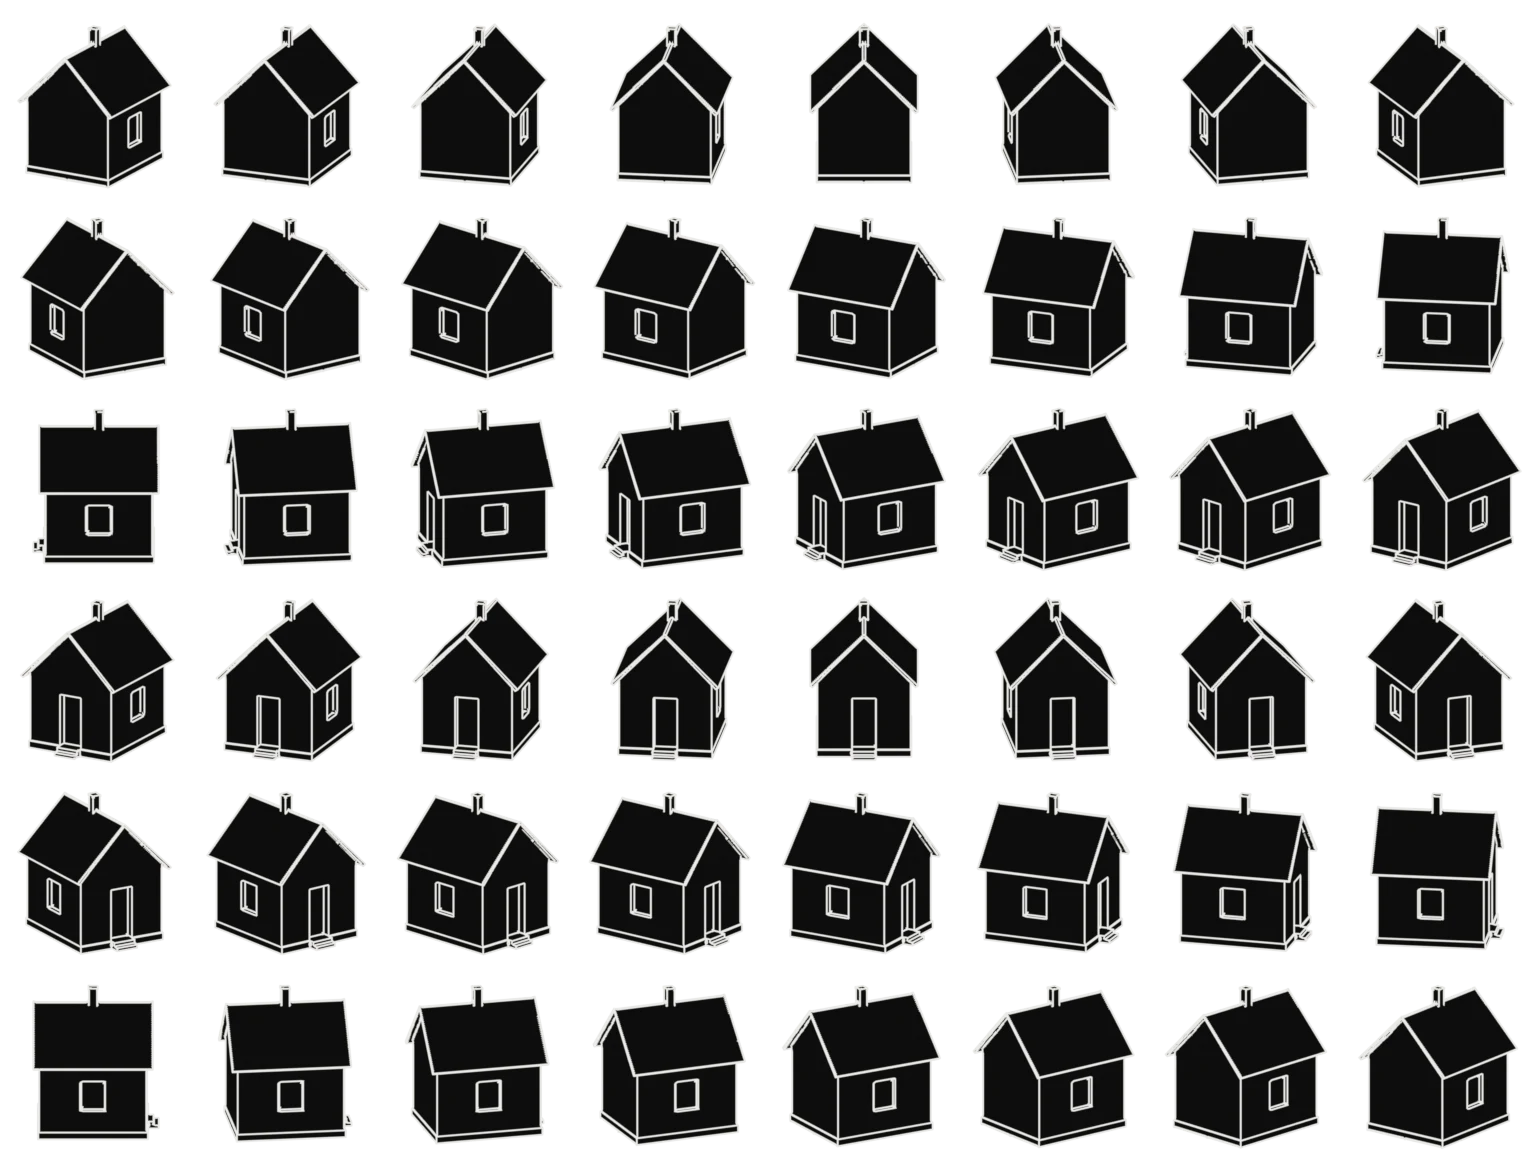
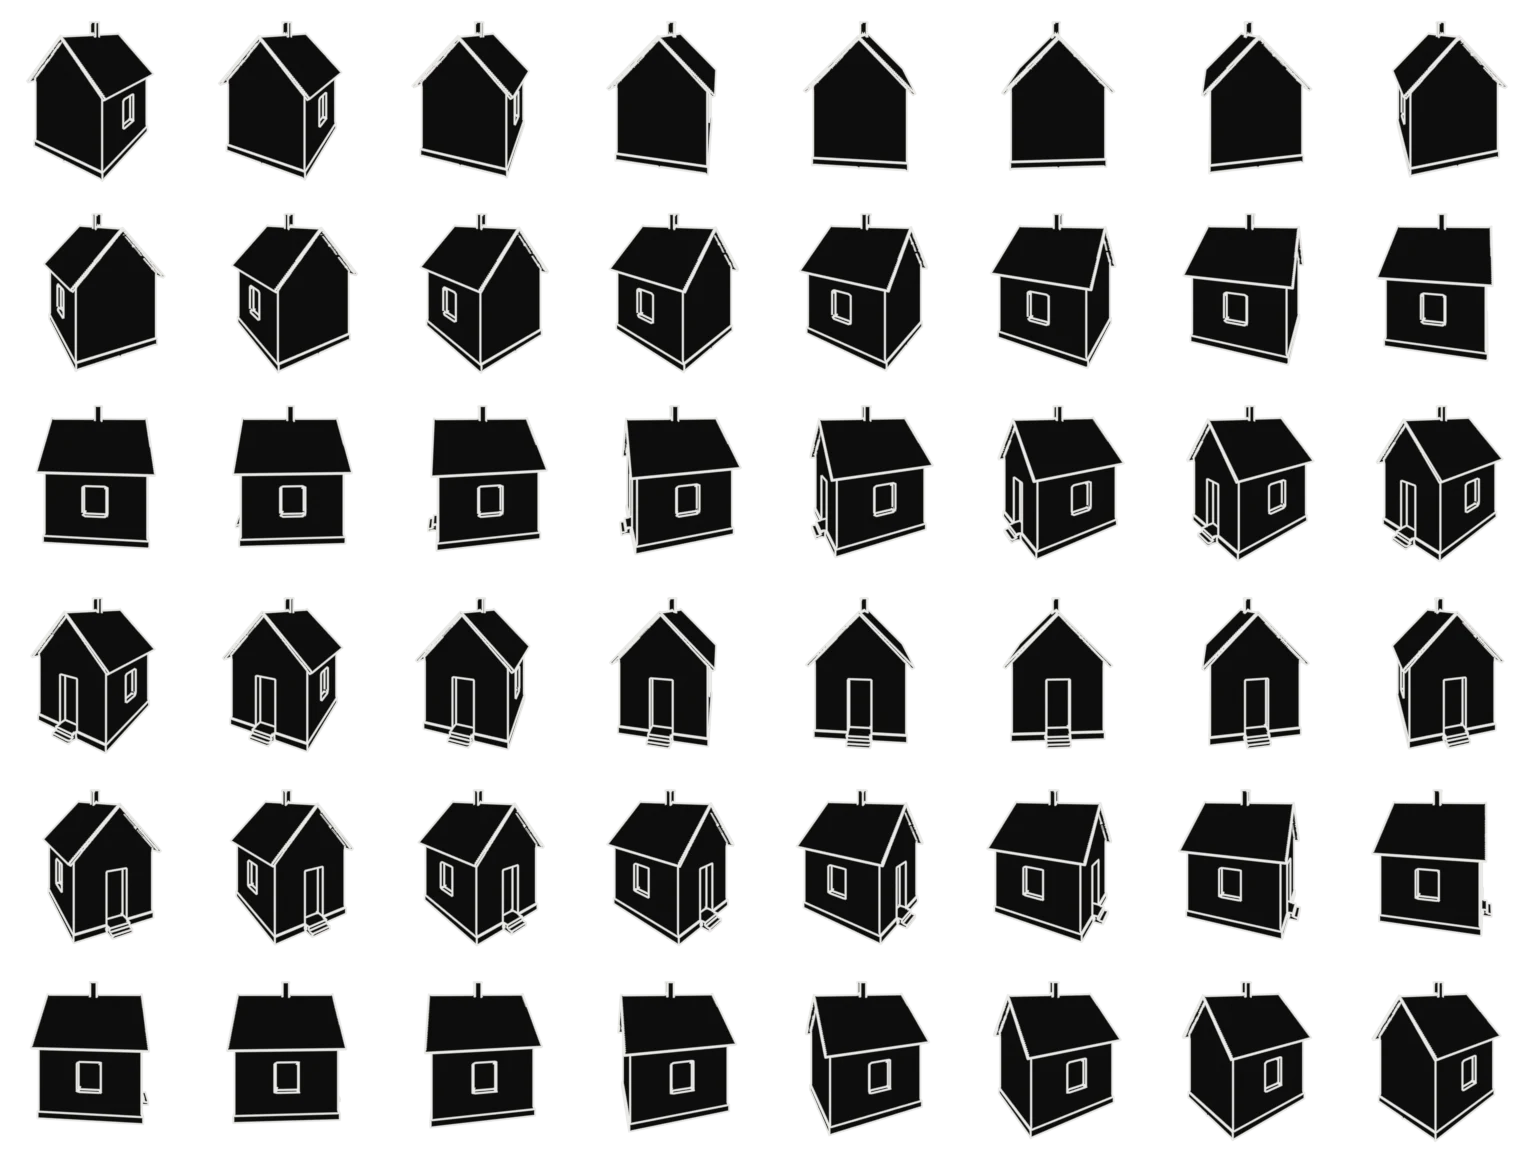
Проба: домик — ракурс Bakohan

Changed region(s): [[0.0, 0.1875, 1.0, 0.6562], [0.0, 0.6875, 1.0, 1.0], [0.0, 0.0312, 1.0, 0.1562]]

diff --git a/proba-domik/index.html b/proba-domik/index.html
@@ -14,7 +14,7 @@ body{margin:0;background:var(--bg);color:var(--ink);font:400 15px/1.4 "Inter Tig
   border-bottom:1px solid var(--line);padding:max(8px,env(safe-area-inset-top)) 16px 8px}
 .row{display:flex;align-items:center;gap:10px;height:56px}
 .row+.row{border-top:1px solid var(--line)}
-.dom{display:block;flex:none;width:44px;height:44px;background-repeat:no-repeat;background-size:800% 600%}
+.dom{display:block;flex:none;width:48px;height:48px;background-repeat:no-repeat;background-size:800% 600%}
 .name{font-weight:600;font-size:15px;line-height:1.02;letter-spacing:-.02em}
 .sep{width:1px;height:26px;background:var(--line);transform:skewX(-18deg);margin:0 4px}
 .sub{font-size:11.5px;line-height:1.35;color:var(--muted)}
@@ -32,14 +32,13 @@ p{color:var(--muted);margin:0 0 22px;font-size:15px}
 </style></head><body>
 <header class="top">
   <div class="row"><span class="dom" data-s="dom-sil.webp"></span><span class="name">Владимир<br>Парков</span><span class="sep"></span><span class="sub">Тату-мастер, Москва<br><i></i>Запись открыта</span><span class="tag"><b>1</b>силуэт</span></div>
-  <div class="row"><span class="dom" data-s="dom-tone.webp"></span><span class="name">Владимир<br>Парков</span><span class="sep"></span><span class="sub">Тату-мастер, Москва<br><i></i>Запись открыта</span><span class="tag"><b>2</b>объём</span></div>
   <div class="row"><span class="dom" data-s="dom-line.webp"></span><span class="name">Владимир<br>Парков</span><span class="sep"></span><span class="sub">Тату-мастер, Москва<br><i></i>Запись открыта</span><span class="tag"><b>3</b>линия</span></div>
 </header>
 <main>
   <h1>Листай вниз и&nbsp;назад</h1>
-  <p>Домики поворачиваются вместе со&nbsp;страницей: долистал до&nbsp;конца&nbsp;— один полный оборот. В&nbsp;шапке сайта будет один домик, здесь три, чтобы сравнить.</p>
+  <p>Ракурс&nbsp;— как на&nbsp;Bakohan. Домики поворачиваются вместе со&nbsp;страницей: долистал до&nbsp;конца&nbsp;— один полный оборот. В&nbsp;шапке сайта будет один домик, здесь два, чтобы сравнить.</p>
   <div class="grid"><img src="../img/01.webp" alt="" loading="lazy"><img src="../img/02.webp" alt="" loading="lazy"><img src="../img/03.webp" alt="" loading="lazy"><img src="../img/05.webp" alt="" loading="lazy"><img src="../img/06.webp" alt="" loading="lazy"><img src="../img/07.webp" alt="" loading="lazy"><img src="../img/08.webp" alt="" loading="lazy"><img src="../img/09.webp" alt="" loading="lazy"><img src="../img/10.webp" alt="" loading="lazy"><img src="../img/12.webp" alt="" loading="lazy"><img src="../img/13.webp" alt="" loading="lazy"><img src="../img/14.webp" alt="" loading="lazy"><img src="../img/15.webp" alt="" loading="lazy"><img src="../img/16.webp" alt="" loading="lazy"><img src="../img/17.webp" alt="" loading="lazy"><img src="../img/18.webp" alt="" loading="lazy"></div>
-  <div class="big"><div><span class="dom" data-s="dom-sil.webp"></span>1 силуэт</div><div><span class="dom" data-s="dom-tone.webp"></span>2 объём</div><div><span class="dom" data-s="dom-line.webp"></span>3 линия</div></div>
+  <div class="big"><div><span class="dom" data-s="dom-sil.webp"></span>1 силуэт</div><div><span class="dom" data-s="dom-line.webp"></span>3 линия</div></div>
   <p style="text-align:center">Те же домики крупнее&nbsp;— чтобы разглядеть.</p>
 </main>
 <script>
